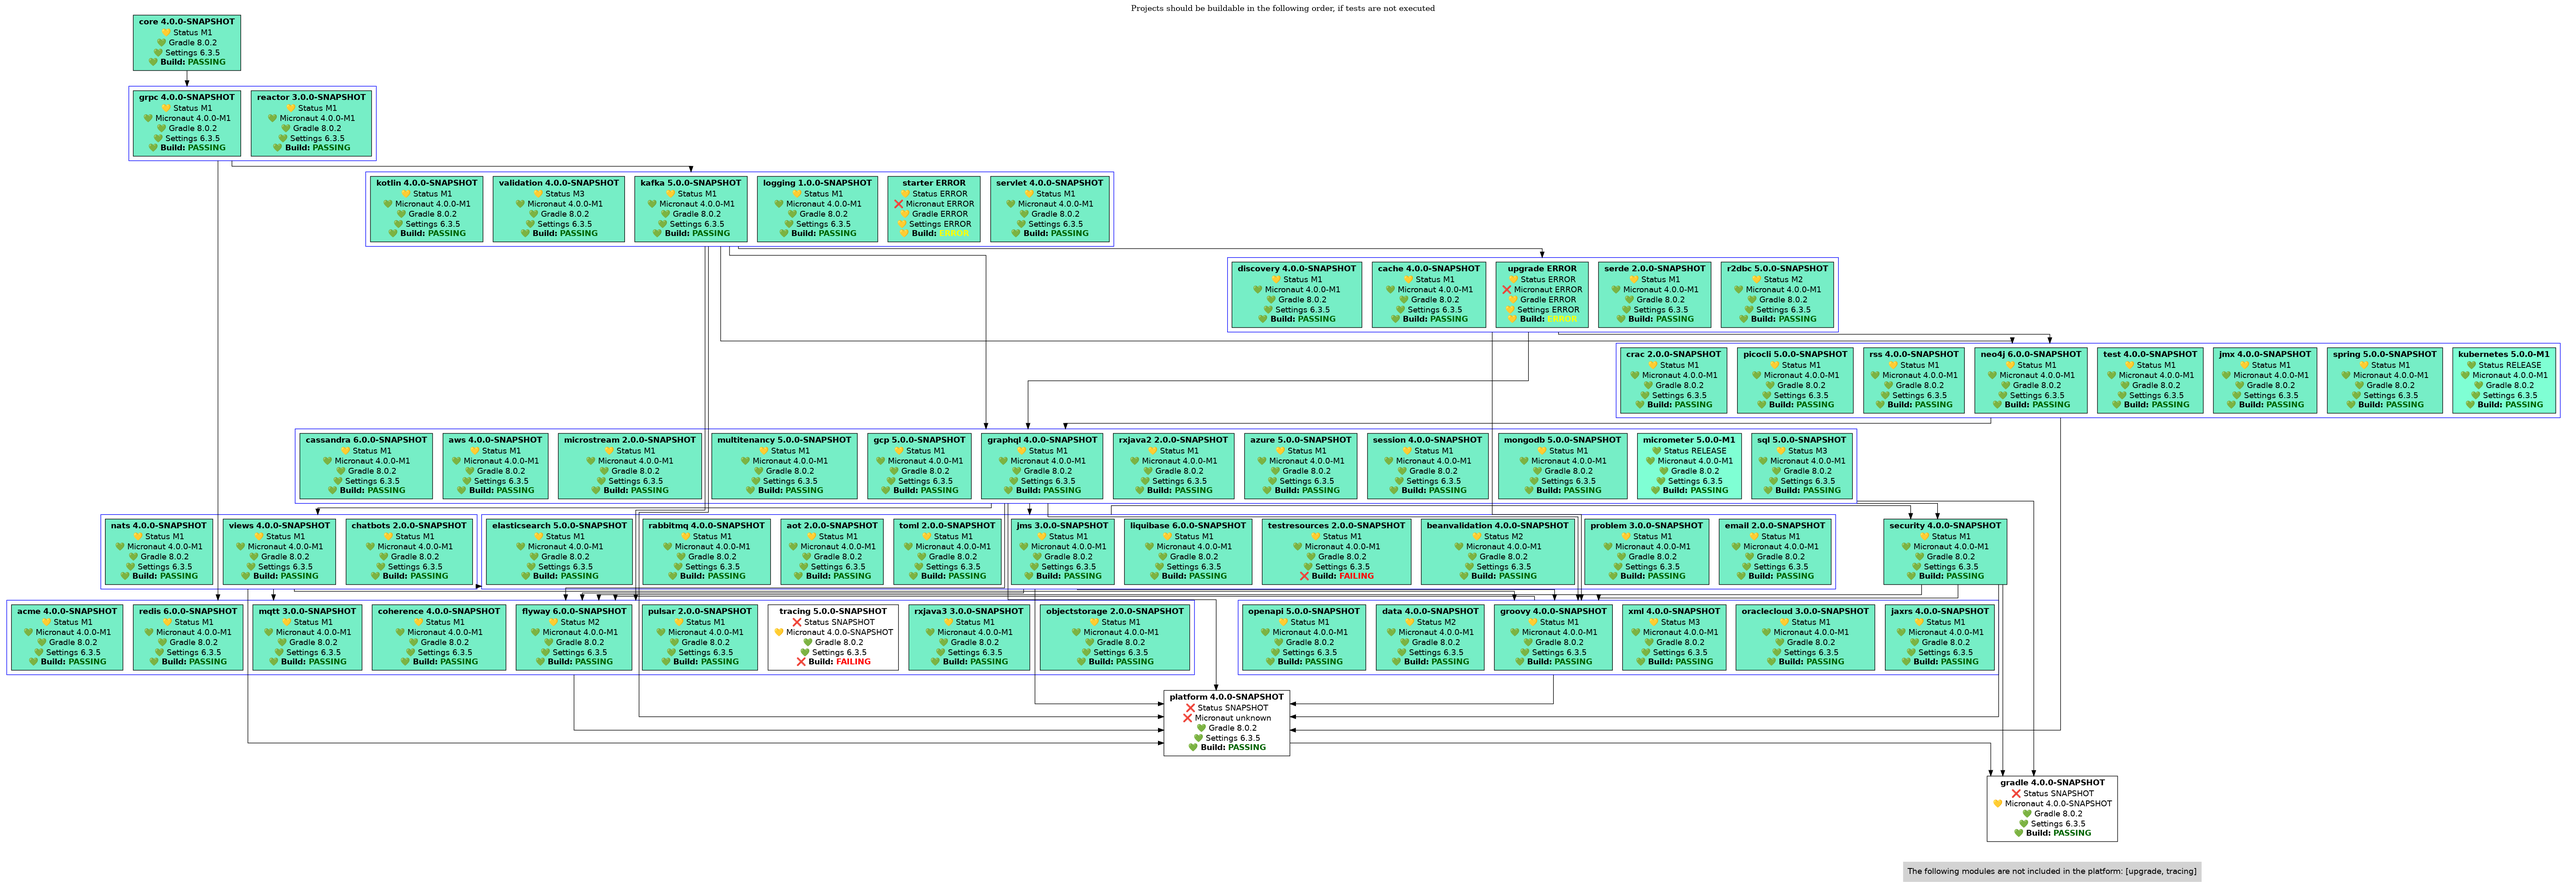
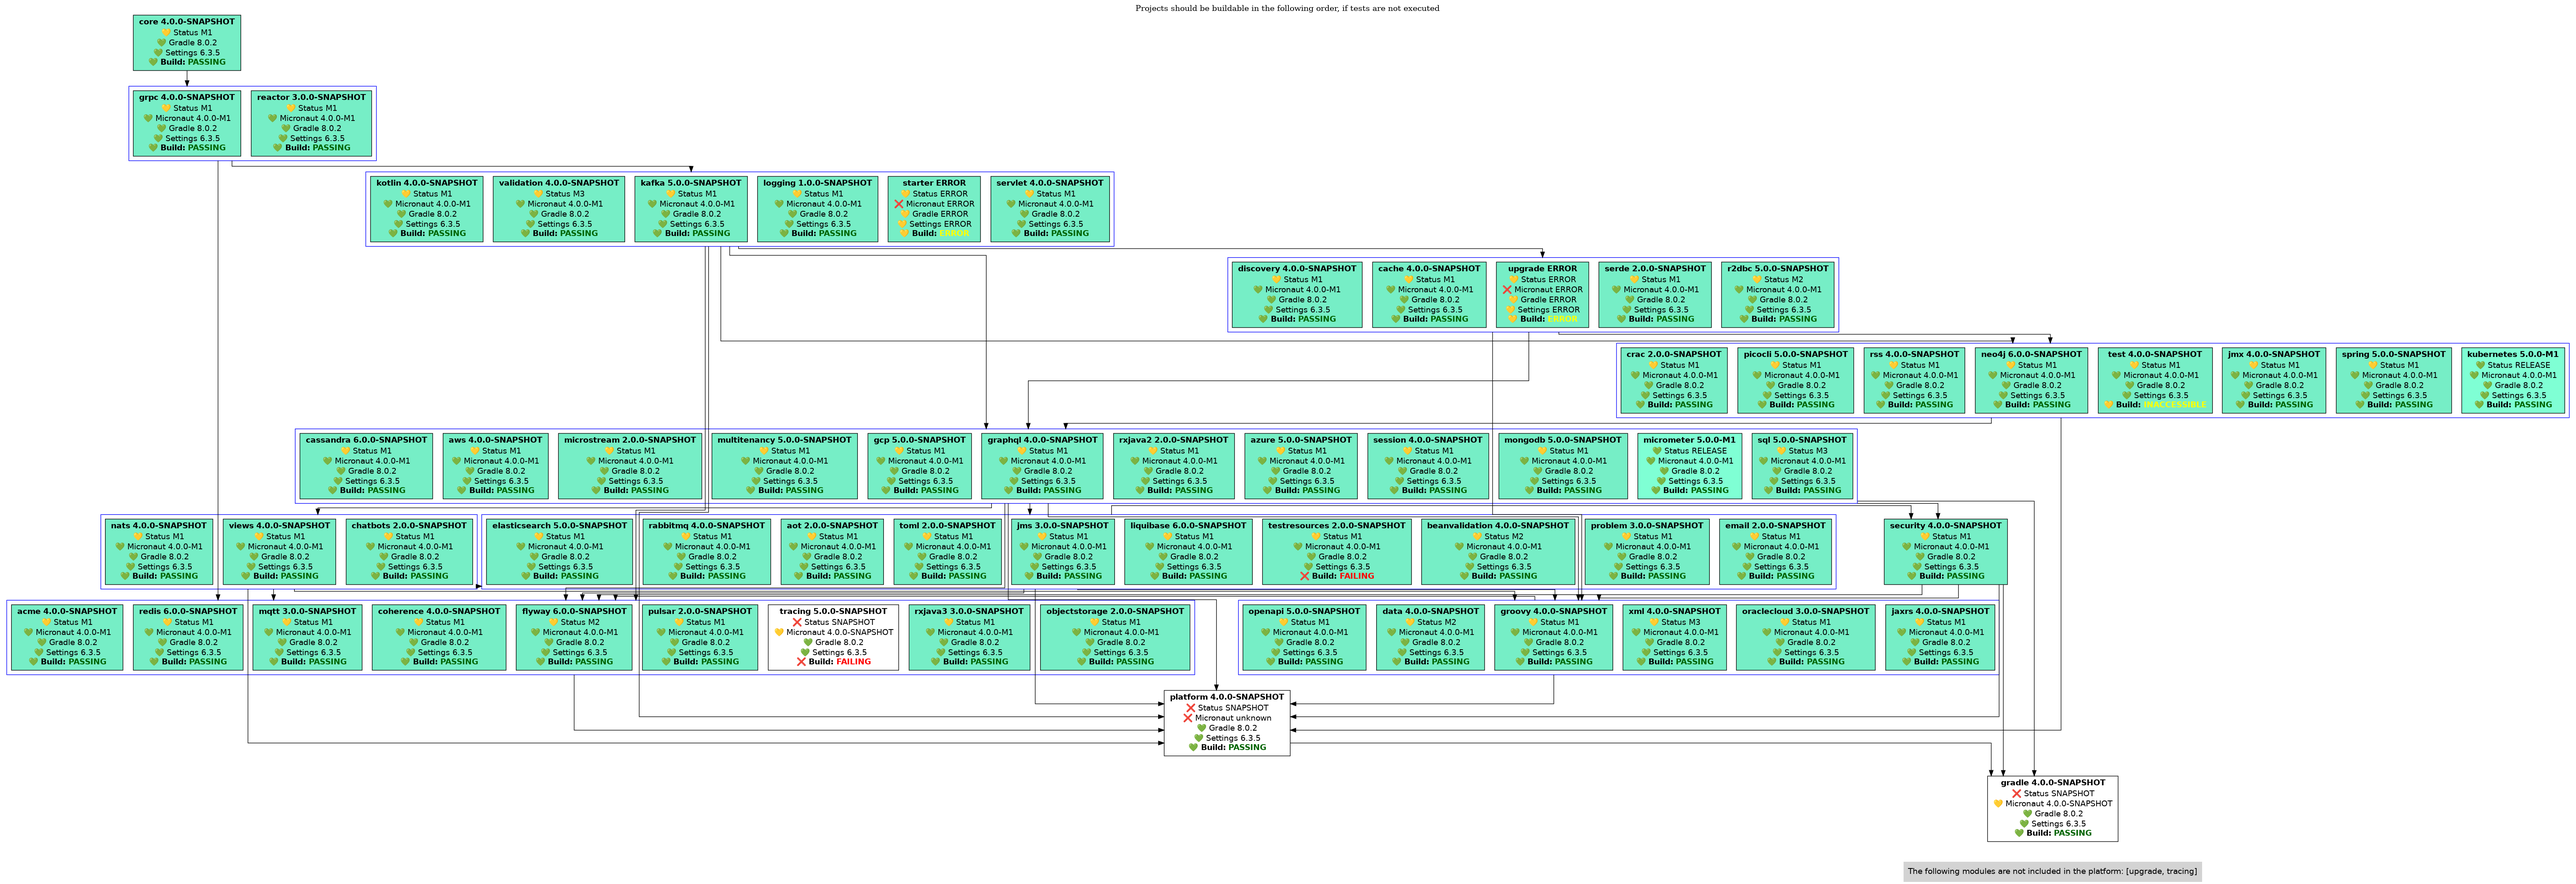
deploy: c268e984363c559ee8d05fbf542d59e98fe998f3

diff --git a/index.html b/index.html
@@ -80,7 +80,7 @@
 <body>
 <div class="header">
     <img src="https://micronaut.io/wp-content/uploads/2020/11/MIcronautLogo_Horizontal.svg">
-    <div class="right">Generated at Apr 12, 2023, 12:17:35 PM</div>
+    <div class="right">Generated at Apr 12, 2023, 6:23:57 PM</div>
 </div>
 <div class="row">
     <nav>
@@ -548,7 +548,7 @@
 <TR><TD>&#128154; Micronaut 4.0.0-M1</TD></TR>
 <TR><TD>&#128154; Gradle 8.0.2</TD></TR>
 <TR><TD>&#128154; Settings 6.3.5</TD></TR>
-<TR><TD>&#128154; <B>Build: <FONT COLOR="darkgreen">PASSING</FONT></B></TD></TR>
+<TR><TD>&#128155; <B>Build: <FONT COLOR="yellow">INACCESSIBLE</FONT></B></TD></TR>
 </TABLE></li>
         <li class="item" onclick="showImage(this, 'project-graph-testresources.png')"><TABLE BORDER="0" CELLSPACING="1" CELLPADDING="1" STYLE="rounded">
 <TR><TD><B>testresources 2.0.0-SNAPSHOT</B></TD></TR>
